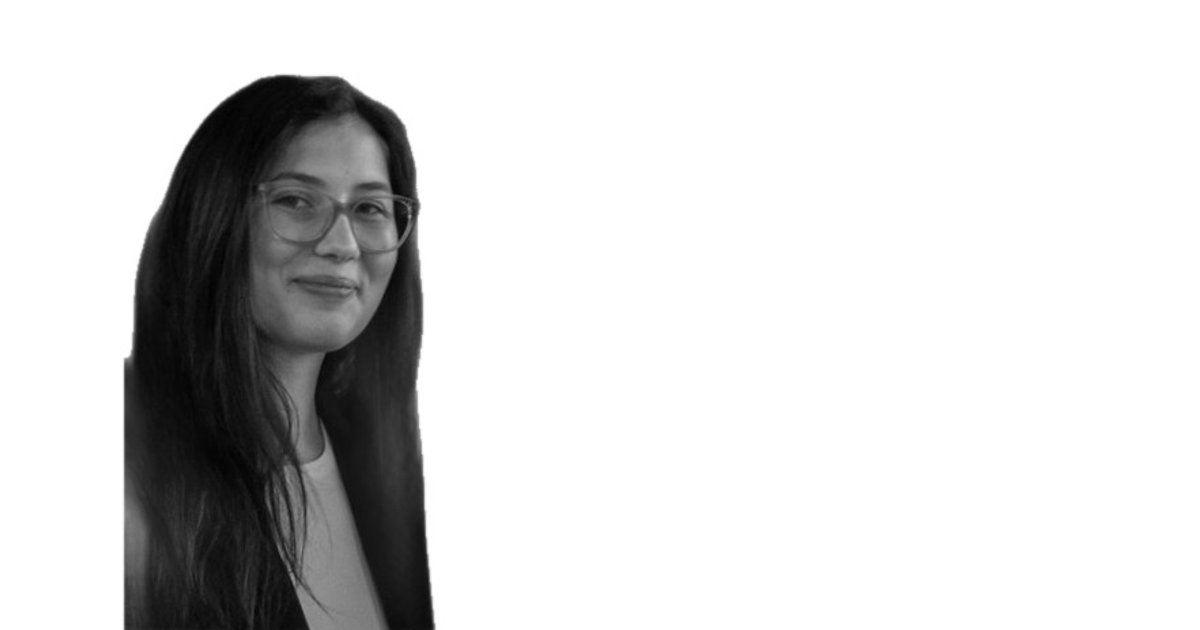
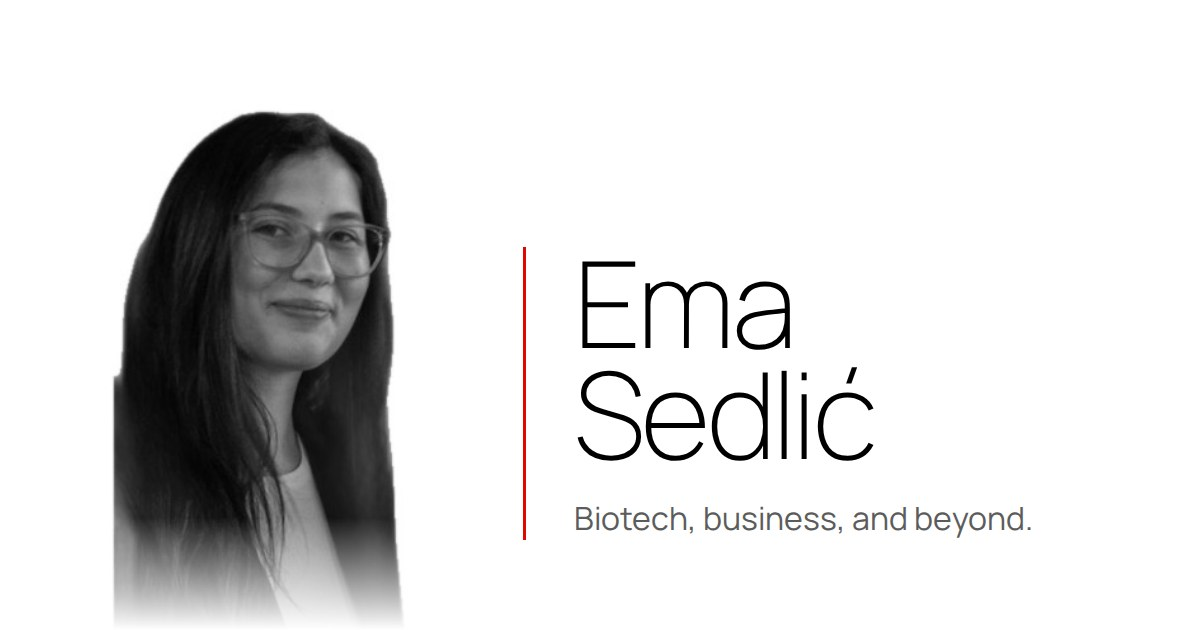
Add files via upload

diff --git a/index.html b/index.html
@@ -36,7 +36,7 @@
   nav .wrap{display:flex;justify-content:space-between;align-items:center;height:64px;font-size:13px}
   nav ul{display:flex;gap:28px;list-style:none}
   nav a:hover{color:var(--r)}
-  @media(max-width:560px){nav ul{gap:18px;font-size:12px}nav .wrap>a{display:none}nav .wrap{justify-content:flex-end}}
+  @media(max-width:560px){nav ul{gap:16px;font-size:12px}nav .wrap>a{font-size:0;width:12px;height:12px;border-radius:50%;background:var(--r);flex:none}}
 
   /* hero */
   .hero{min-height:100svh;display:grid;align-items:end;padding-bottom:clamp(40px,8vh,96px);padding-top:120px}
@@ -65,7 +65,7 @@
   .sub h3{font-weight:400;font-size:13px;color:var(--g);margin-bottom:20px}
 
   /* the crossing */
-  .cross{height:1px;background:var(--r)}
+  .cross{height:2px;background:var(--r)}
 
   /* dark half */
   .dark{background:var(--k);color:var(--w)}
@@ -117,7 +117,7 @@
   <div class="intro">
     <h1><span>Ema</span><span>Sedlić</span></h1>
     <p>Biotech, business, and beyond.</p>
-    <div class="loc">21. Rijeka, Croatia.</div>
+    <div class="loc">Croatia, 21 y/o.</div>
   </div>
 </div></header>
 
@@ -148,9 +148,9 @@
   </div></div>
 
   <div class="sub"><h3>Awards</h3><div class="rows">
-    <div class="row" data-img="img/dean-2025.jpg"><time>2025</time><div><strong>Dean's Award for Student Activism</strong></div></div>
-    <div class="row" data-img="img/realizator-2025.jpg"><time>2025</time><div><strong>Realizator Case Study — 3rd place</strong></div></div>
-    <div class="row" data-img="img/realizator-2024.jpg"><time>2024</time><div><strong>Realizator Case Study — 1st place</strong></div></div>
+    <div class="row" data-img="img/dean-2025.jpg"><time>2025</time><div><strong>Dean's Award for Student Activism</strong><em>670 volunteer hours in one academic year</em></div></div>
+    <div class="row" data-img="img/realizator-2025.jpg"><time>2025</time><div><strong>Realizator Case Study — 3rd place</strong><em>Optimised medical-representative training for JGL d.d.</em></div></div>
+    <div class="row" data-img="img/realizator-2024.jpg"><time>2024</time><div><strong>Realizator Case Study — 1st place</strong><em>Built digital tools for more efficient accounting at Aestus d.o.o.</em></div></div>
     <div class="row" data-img="img/sia-2023.jpg"><time>2023</time><div><strong>Social Impact Award — Audience Award, 1st place</strong><em>Top 3 social impact ideas in Croatia</em></div></div>
     <div class="row" data-img="img/debata-2022.jpg"><time>2022</time><div><strong>National Debate Competition — 3rd place</strong></div></div>
     <div class="row" data-img="img/ideja-godine-2021.jpg"><time>2021</time><div><strong>UpShift, Ideja godine — 1st place</strong></div></div>
@@ -164,7 +164,7 @@
     <div class="row"><time>2022</time><div><strong>Financial literacy in local schools</strong><em>Wrote the programme, partnered with NGOs</em></div></div>
     <div class="row" data-img="img/chatbot-2020.jpg"><time>2020</time><div><strong>Chatbot for earthquake relief, Petrinja</strong></div></div>
     <div class="row" data-img="img/parlament-2019.jpg"><time>2019</time><div><strong>Youth delegate, European Parliament</strong><em>Brussels</em></div></div>
-    <div class="row"><time>2017</time><div><strong>Afrika možemo zajedno</strong><em>Led a 20-person fundraising team</em></div></div>
+    <div class="row" data-img="img/afrika-2017.jpg"><time>2017</time><div><strong>Afrika možemo zajedno</strong><em>Led a 20-person fundraising team</em></div></div>
   </div></div>
 </div></section>
 
